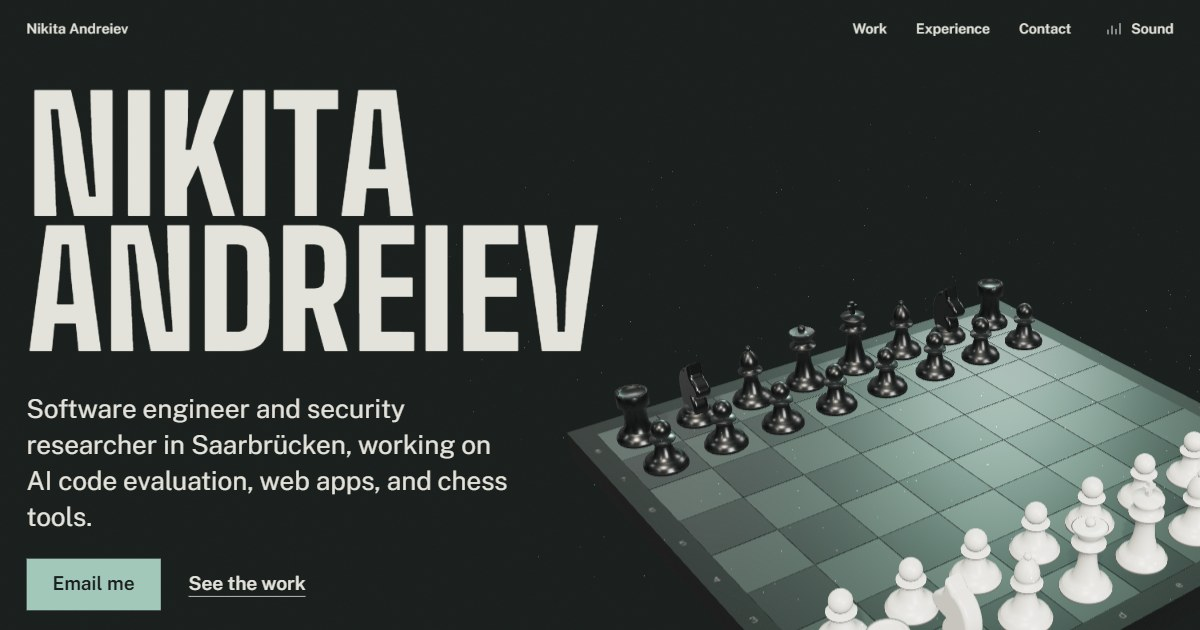
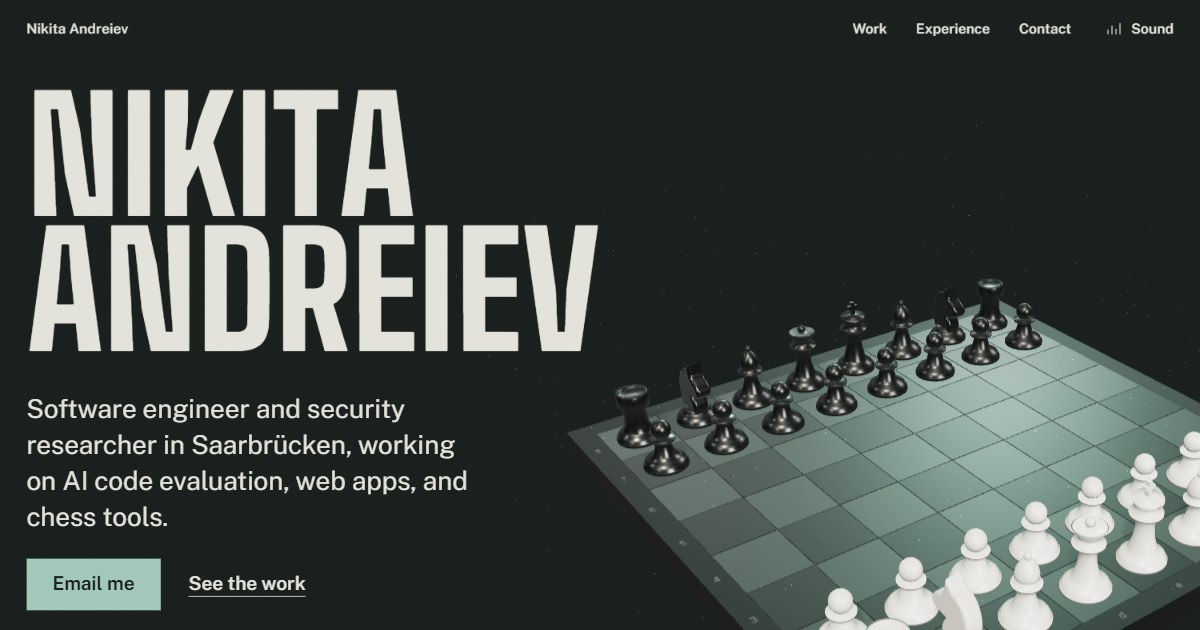
Hero lead: avoid orphan word

Changed region(s): [[0.0, 0.754, 0.4317, 0.7841], [0.0, 0.8143, 0.1542, 0.8444], [0.37, 0.6937, 0.4008, 0.7238]]

diff --git a/src/style.css b/src/style.css
@@ -161,7 +161,7 @@ main, .foot { position: relative; z-index: 1; }
 .lines .line { display: block; overflow: hidden; padding-bottom: 0.06em; margin-bottom: -0.06em; }
 .lines [data-line] { display: block; }
 .hero-foot { display: grid; gap: 24px; max-width: 42ch; }
-.hero-lead { font-size: var(--step-lead); line-height: 1.38; }
+.hero-lead { font-size: var(--step-lead); line-height: 1.38; text-wrap: pretty; }
 
 @media (prefers-reduced-motion: no-preference) {
   .js .lines [data-line] { transform: translateY(105%); animation: line-up 1000ms var(--ease-out) forwards; animation-delay: calc(var(--i) * 110ms + 200ms); }
